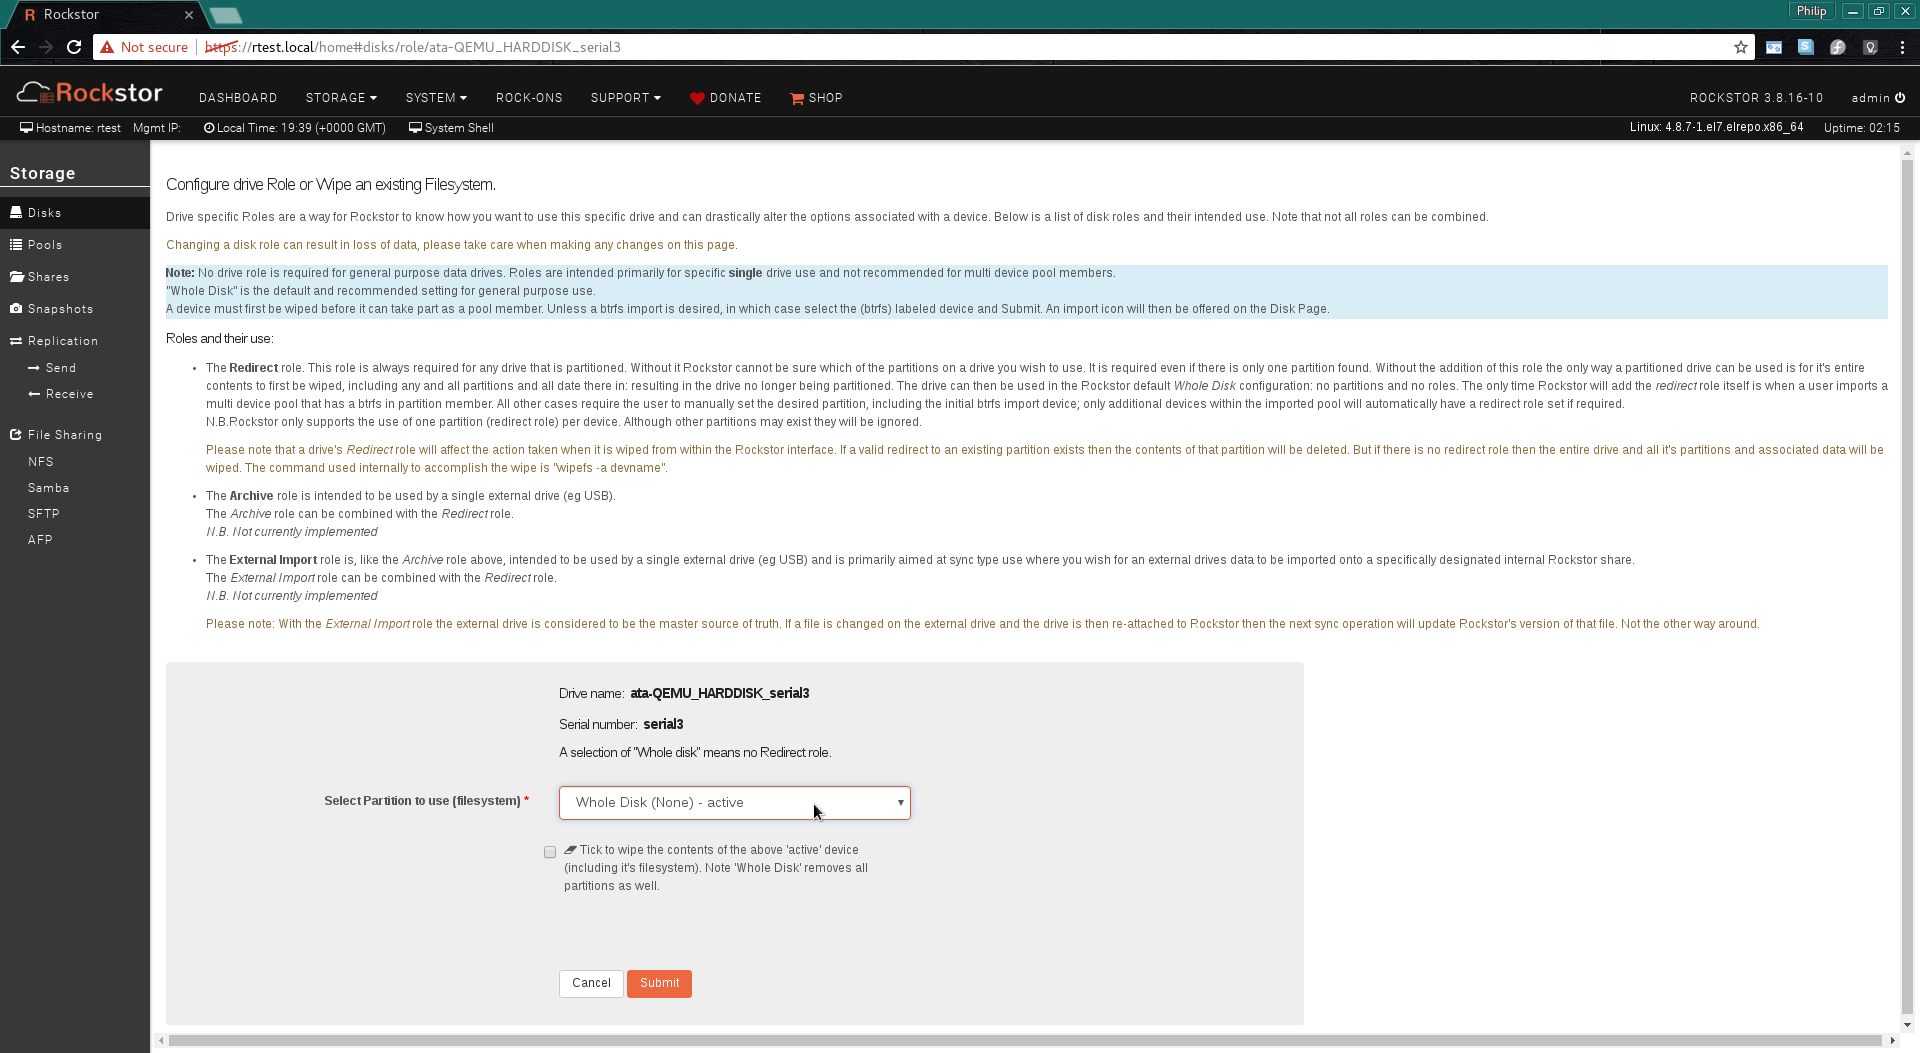
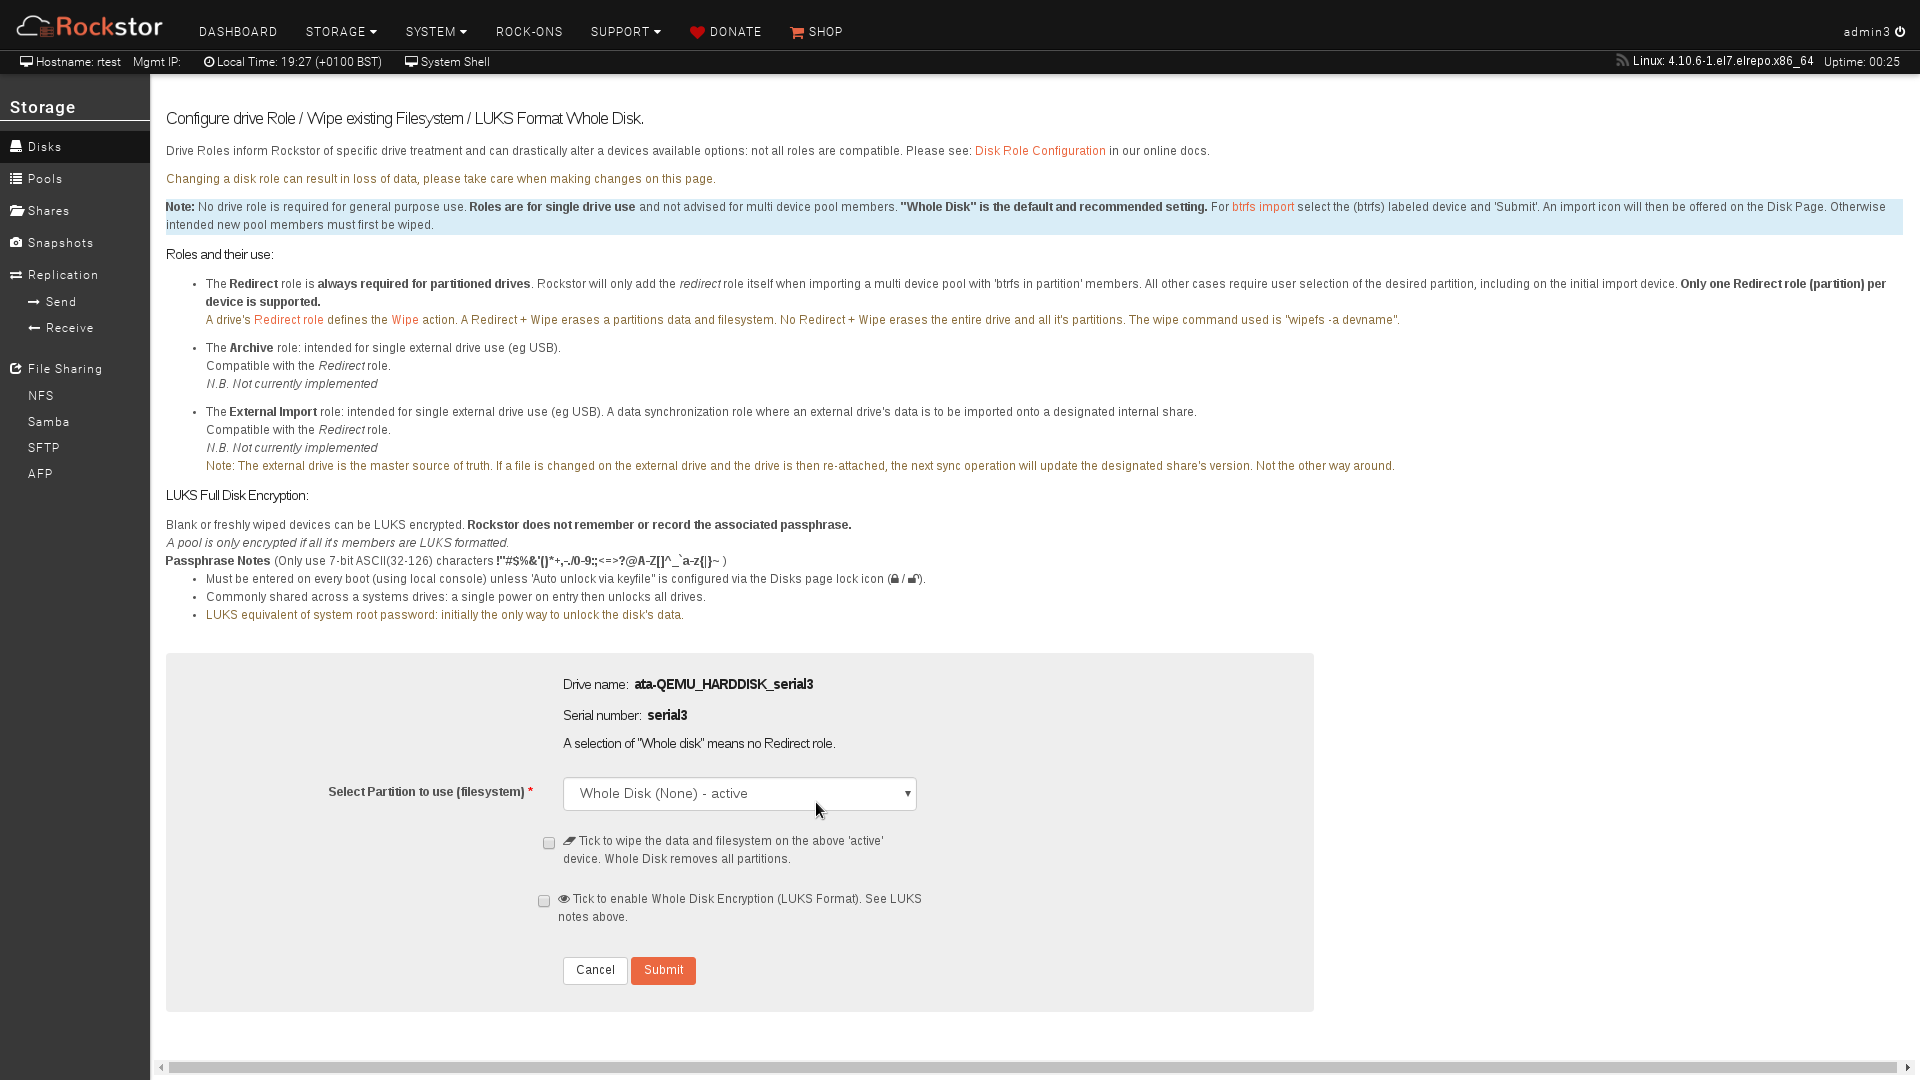
update Disks page to include LUKS page link #169
Also update role text to reflect brevity changes
in the disk role config explanations along with
an updated image of the same.

diff --git a/disks.rst b/disks.rst
@@ -168,6 +168,8 @@ They are intended as a way to label individual disks for a specific use.
 Examples of such uses are documented on the configuration page:
 
 The disk role configuration page:
+Configure drive Role / :ref:`Wipe <wipedisk>` existing Filesystem /
+:ref:`LUKS <luks>` Format Whole Disk.
 
 .. image:: images/config-drive-role-page.png
    :width: 100%
@@ -182,29 +184,15 @@ The Disk Redirect Role
 
 Quoting from the configuration page:
 
-*"The Redirect role. This role is always required for any drive that is
-partitioned. Without it Rockstor cannot be sure which of the partitions on a
-drive you wish to use. It is required even if there is only one partition
-found. Without the addition of this role the only way a partitioned drive can
-be used is for it's entire contents to first be wiped, including any and all
-partitions and all date there in: resulting in the drive no longer being
-partitioned. The drive can then be used in the Rockstor default Whole Disk
-configuration: no partitions and no roles. The only time Rockstor will add
-the redirect role itself is when a user imports a multi device pool that has
-a btrfs in partition member. All other cases require the user to manually set
-the desired partition, including the initial btrfs import device; only
-additional devices within the imported pool will automatically have a
-redirect role set if required.*
+*"The Redirect role is always required for partitioned drives. Rockstor will
+only add the redirect role itself when importing a multi device pool with
+'btrfs in partition' members. All other cases require user selection of the
+desired partition, including on the initial import device. Only one Redirect
+role (partition) per device is supported.*
 
-**N.B.Rockstor only supports the use of one partition (redirect role) per
-device. Although other partitions may exist they will be ignored.**
-
-*Please note that a drive's Redirect role will affect the action taken when it
-is wiped from within the Rockstor interface. If a valid redirect to an
-existing partition exists then the contents of that partition will be
-deleted. But if there is no redirect role then the entire drive and all it's
-partitions and associated data will be wiped. The command used internally to
-accomplish the wipe is "wipefs -a devname"."*
+**A drive's Redirect role defines the Wipe action. A Redirect + Wipe erases a
+partitions data and filesystem. No Redirect + Wipe erases the entire drive
+and all it's partitions. The wipe command used is "wipefs -a devname".** "
 
 The Redirect role is essentially a pointer to the partition one wants to use
 on a disk instead of using the whole disk (recommended). No Redirect role
